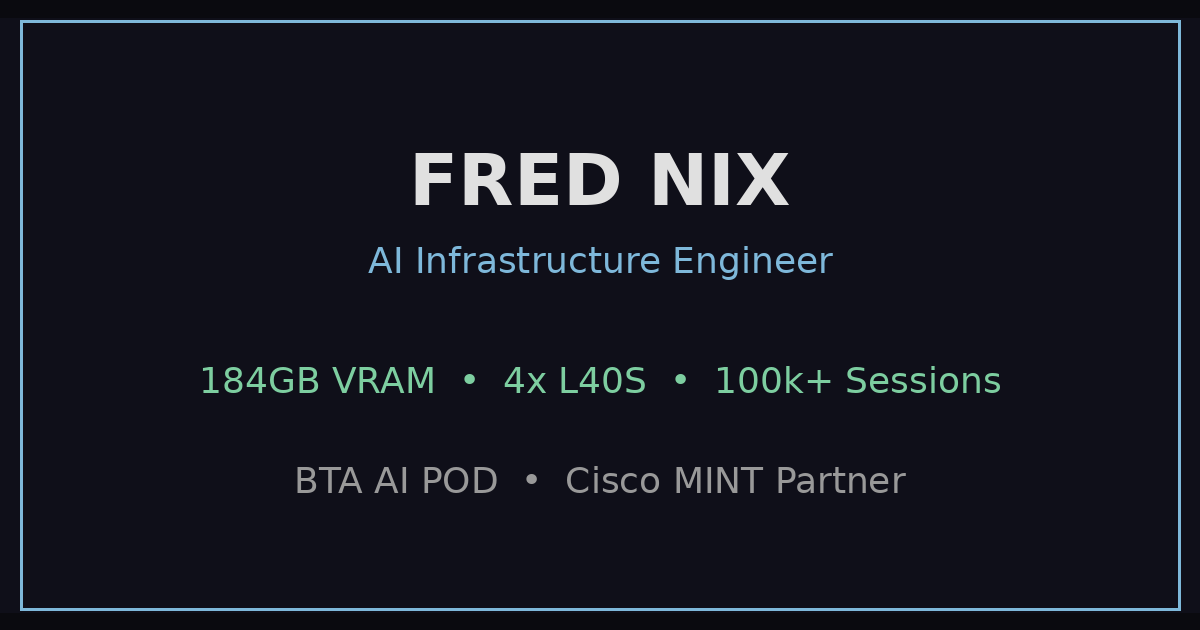
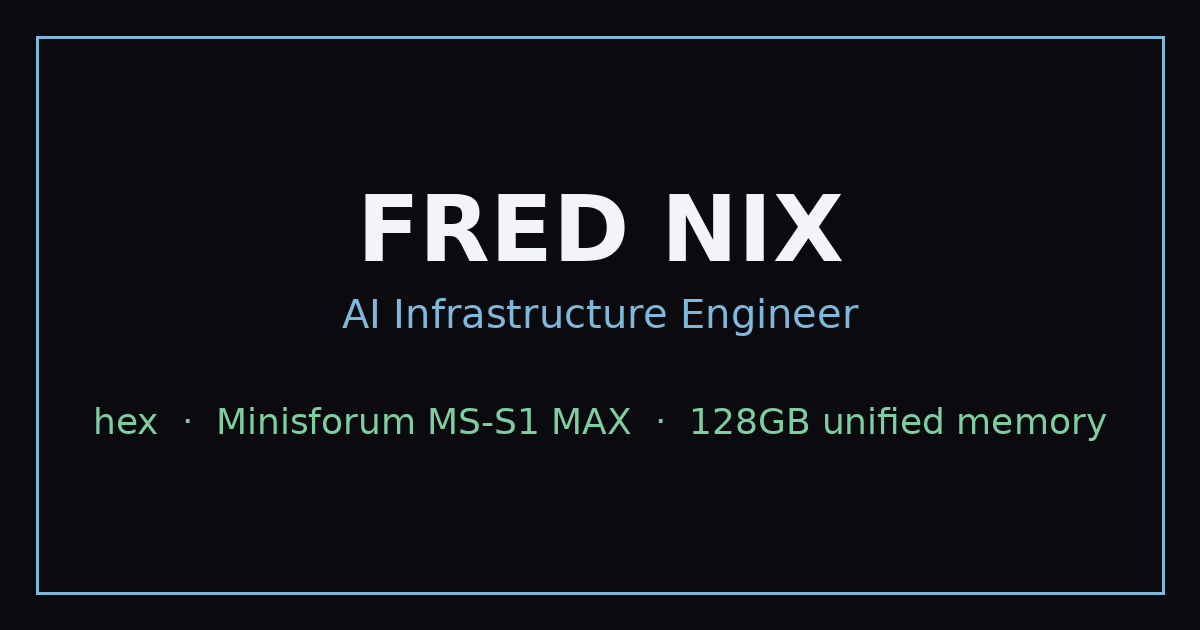
Update current lab hardware from L40S to hex
Replace current-inventory L40S and 184GB VRAM claims with hex, a
Minisforum MS-S1 MAX with 128GB unified memory. BTA AI POD figures stay
in the project timeline and By the Numbers section as past work.

diff --git a/index.html b/index.html
@@ -11,7 +11,7 @@
     <meta property="og:type" content="website">
     <meta property="og:url" content="https://nixfred.com/ai/">
     <meta property="og:title" content="Fred Nix | AI Infrastructure Engineer">
-    <meta property="og:description" content="184GB VRAM - 4x NVIDIA L40S - 100k+ AI Sessions - BTA AI POD">
+    <meta property="og:description" content="Local AI on hex, a Minisforum MS-S1 MAX with 128GB unified memory. AI infrastructure by Fred Nix.">
     <meta property="og:image" content="https://nixfred.com/ai/share-image.png">
     <meta property="og:image:width" content="1200">
     <meta property="og:image:height" content="630">
@@ -19,7 +19,7 @@
     <!-- Twitter Card -->
     <meta name="twitter:card" content="summary_large_image">
     <meta name="twitter:title" content="Fred Nix | AI Infrastructure Engineer">
-    <meta name="twitter:description" content="184GB VRAM - 4x NVIDIA L40S - 100k+ AI Sessions - BTA AI POD">
+    <meta name="twitter:description" content="Local AI on hex, a Minisforum MS-S1 MAX with 128GB unified memory. AI infrastructure by Fred Nix.">
     <meta name="twitter:image" content="https://nixfred.com/ai/share-image.png">
 
     <link href="https://fonts.googleapis.com/css2?family=Orbitron:wght@400;500;600;700;900&family=JetBrains+Mono:wght@300;400;500;600&family=Inter:wght@300;400;500;600;700&display=swap" rel="stylesheet">
@@ -1737,19 +1737,12 @@
             </p>
             <div class="hero-stats reveal stagger-5">
                 <div class="hero-stat">
-                    <span class="hero-stat-number" data-target="184">0</span>
-                    <span class="hero-stat-label">GB VRAM</span>
+                    <span class="hero-stat-number" data-target="128">0</span>
+                    <span class="hero-stat-label">GB unified memory</span>
                 </div>
                 <div class="hero-stat">
-                    <span class="hero-stat-number" data-target="9">0</span>
-                    <span class="hero-stat-label">LLM Models</span>
-                </div>
-                <div class="hero-stat">
-                    <span class="hero-stat-number" data-target="100">0</span><span class="hero-stat-label">k+ AI Sessions</span>
-                </div>
-                <div class="hero-stat">
-                    <span class="hero-stat-number" data-target="168">0</span>
-                    <span class="hero-stat-label">x Faster Deploy</span>
+                    <span class="hero-stat-number hero-stat-text">hex</span>
+                    <span class="hero-stat-label">Minisforum MS-S1 MAX</span>
                 </div>
             </div>
         </div>
@@ -1848,7 +1841,7 @@
         </div>
         <div class="parallax-content reveal-scale">
             <h2>NEURAL ARCHITECTURE</h2>
-            <p>9 LLM models hot-swappable in under 30 seconds. 184GB VRAM orchestrated across 4x NVIDIA L40S GPUs.</p>
+            <p>Current local lab: hex, a Minisforum MS-S1 MAX with 128GB of unified memory.</p>
         </div>
     </div>
 
@@ -1863,11 +1856,11 @@
             <div class="card reveal stagger-1">
                 <div class="card-icon">GPU</div>
                 <h4>GPU Infrastructure</h4>
-                <p>NVIDIA L40S deployment, CUDA optimization, multi-GPU orchestration, vLLM inference engines, and real-time GPU monitoring with DCGM.</p>
+                <p>On-prem inference labs, from packaged NVIDIA GPU deployments to the current local lab on hex, a Minisforum MS-S1 MAX with 128GB unified memory. CUDA, vLLM, and live monitoring.</p>
                 <div class="card-tags">
                     <span class="card-tag">CUDA</span>
                     <span class="card-tag">vLLM</span>
-                    <span class="card-tag">L40S</span>
+                    <span class="card-tag">hex</span>
                     <span class="card-tag">DCGM</span>
                 </div>
             </div>
@@ -2109,7 +2102,7 @@
             </div>
             <div class="timeline-item">
                 <div class="timeline-content reveal-left">
-                    <div class="timeline-phase">Current</div>
+                    <div class="timeline-phase">Result</div>
                     <h4>Production Ready</h4>
                     <p>100k+ AI sessions. 9 LLM models available. Air-gap certified. Enterprise deployment proven.</p>
                 </div>

diff --git a/README.md b/README.md
@@ -1,6 +1,6 @@
 <p align="center">
   <a href="https://nixfred.com/ai/">
-    <img src="share-image.png" alt="Fred Nix — AI Infrastructure Engineer: 184 GB VRAM, four NVIDIA L40S GPUs, and more than 100,000 AI sessions" width="100%">
+    <img src="share-image.png" alt="Fred Nix, AI Infrastructure Engineer: hex, a Minisforum MS-S1 MAX with 128GB unified memory" width="100%">
   </a>
 </p>
 
@@ -25,12 +25,12 @@ This repository powers two complementary, static portfolio experiences:
 | [`/ai/`](https://nixfred.com/ai/) | A narrative case study covering the problem, architecture, deployment model, operational capabilities, and lessons behind an enterprise AI platform. |
 | [`/ai/resumerge/`](https://nixfred.com/ai/resumerge/) | A résumé-oriented view connecting that platform work to roles, skills, outcomes, and career history. |
 
-The headline implementation is the **BTA AI POD**: an enterprise AI environment described by the portfolio as four NVIDIA L40S GPUs, 184 GB of aggregate VRAM, nine hot-swappable models, and more than 100,000 AI sessions.
+The current local AI lab is **hex**, a Minisforum MS-S1 MAX with 128GB of unified memory. A prior headline implementation, the **BTA AI POD**, was an enterprise AI environment with four NVIDIA L40S GPUs, 184 GB of aggregate VRAM, nine hot-swappable models, and more than 100,000 AI sessions.
 
 ```mermaid
 flowchart LR
     A[Enterprise AI requirements] --> B[Repeatable infrastructure design]
-    B --> C[GPU compute<br/>4 × NVIDIA L40S]
+    B --> C[Current local lab<br/>hex, Minisforum MS-S1 MAX, 128GB unified memory]
     B --> D[Network + storage]
     C --> E[Containerized model serving]
     D --> E
@@ -92,9 +92,9 @@ flowchart LR
 mindmap
   root((AI platform))
     Compute
-      NVIDIA L40S
-      GPU memory planning
-      Model hot-swapping
+      hex (Minisforum MS-S1 MAX)
+      128GB unified memory
+      On-prem GPU deployments
     Platform
       Containers
       Model serving
